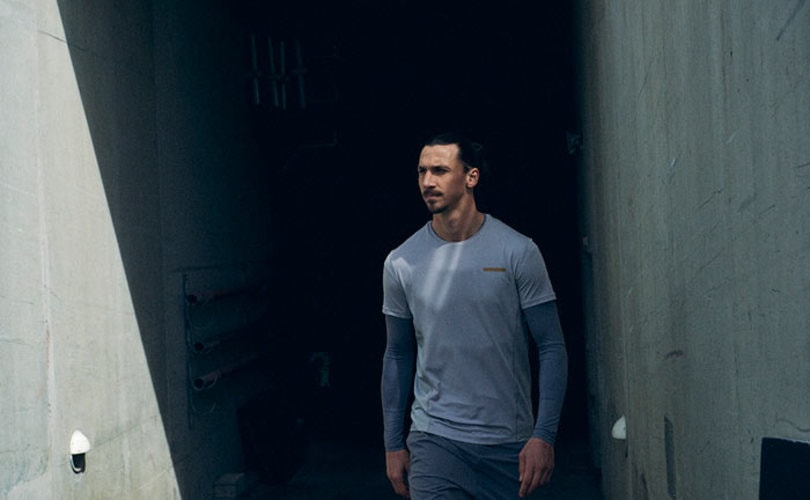
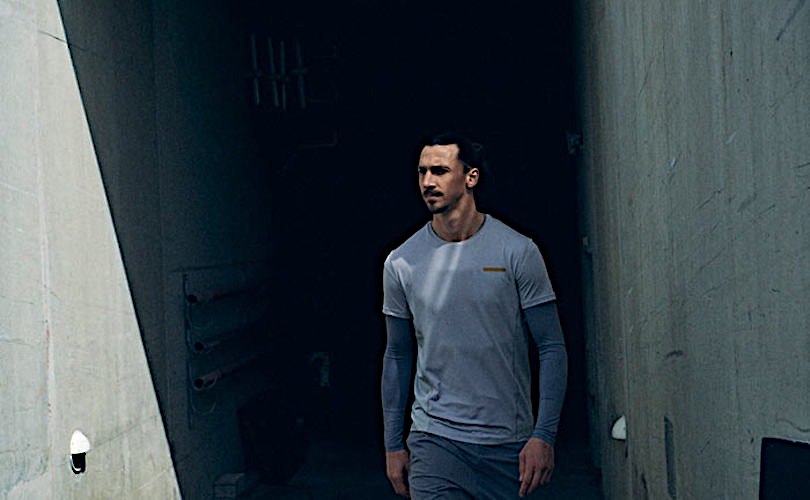
new background technique

diff --git a/style.css b/style.css
@@ -1,7 +1,10 @@
-  *{
-    font-family: Rubik,sans-serif;
+  html,body{
     margin: 0;
     padding: 0;
+    height: 100%;
+    width: 100%;
+    font-family: Rubik,sans-serif;
+
   }
   body{
     overflow-x: hidden;
@@ -15,35 +18,44 @@
    body::-webkit-scrollbar-thumb{
     background: #75e7ba;
   }
-
+ 
+  /* Responsive Background  */
+  .intro{
+    height: 100%;
+    width: 100%;
+    margin: auto;
+    background: url(//C:/Users/kianf/Documents/atom/Website/Zlatan1.png);
+    display: table;
+    top: 0;
+    background-size: cover;
+  }
 
   #root{
-    background-color:#0f0f11;
-    width:100%;
+    background-color:#000000;
     height:4000px;
     left: 0px;
-    position: relative;
     top:0px;
-
-  }
-  #homeSmall{
-    display: none;
-  }
-  section{
-    top: 0;
-    position: absolute;
-    width: 100%;
-    z-index: 0;
-  }
-  #navbig{
-    width: 100%;
-    height: 100px;
-    z-index: 1;
-    position: relative;
-    margin-left: 10%;
-  }
+    z-index: -1;
+    }
+    #homeSmall{
+      display: none;
+    }
+    section{
+      top: 0;
+      position: absolute;
+      z-index: 0;
+    }
+    #navbig{
+      width: 100%;
+      height: 100px;
+      z-index: 1;
+      position: relative;
+      margin-left: 10%;
+    } 
+   
+ 
   /* Navigation Styles normal */
-  #ul{
+  ul{
     margin-left: 50px;
 
   }
@@ -69,7 +81,7 @@
     display: hidden;
     justify-content: space-around;
     align-items: center;
-    background-color: #75e7ba;
+    background-color: #000000;
     width: 100%;
   }
   .logo{
@@ -140,7 +152,7 @@
     #bigdiv{
       position: absolute;
       display: flex;
-      top: 65vw;
+      top: 63vw;
       width: 100%;
     }
     #div1{
@@ -168,7 +180,7 @@
     #txtbox{
       border: #f5f5f5 solid 4px;
       position: relative;
-      top: 85vw;
+      top: 80vw;
       margin-left: 35%;
       width: 30%;
       height: 10vw;      
@@ -193,17 +205,17 @@
           overflow-x: hidden;
         }
         #div1{
-          margin-left: 10%;
+          margin-left: 13%;
         }
         #div2{
-          margin-left: 42%;
+          margin-left: 39.5%;
         }
         #div3{
-          margin-left: 72%;
+          margin-left: 66%;
         }
-        /* #txtbox{
-          top: 90vw;      
-        } */
+        #txtbox{
+          top: 83vw;      
+        }
       }
       @media screen and (max-width:1600px){
 
@@ -232,10 +244,6 @@
           #div3{
             margin-left: 70%;
           }
-          #txtbox{
-            top: 87vw;      
-          }
-
         }
         @media screen and (max-width:1025px){
 
@@ -247,7 +255,7 @@
               overflow-x: hidden;
             }
             #bigdiv{
-              top: 75vw;
+              top: 85vw;
             }
             #div1{
               margin-left: 5%;
@@ -269,7 +277,7 @@
             }
             #startButton{
               height: 50px;
-              width: 180px;
+              width: 130px;
               margin-top: 7vh;
               font-size: smaller;
             }
@@ -278,26 +286,39 @@
                 font-size: 1.4vw;
            }
            #txtbox{
-            top: 88vw;      
+            top: 98vw;      
           }
         }
         @media screen and (max-width:800px){
 
+          .intro{
+            background: url(//C:/Users/kianf/Documents/atom/Website/Zlatan-small.png); 
+            background-repeat: no-repeat;
+            width: 100%;
+            
+              /* height: 800px;
+              background-size: 100% 100%; */
+                     
+          }
           .picture{
-            width: 150px;
-            height: 200px;
+            width: 300px;
+            height: 400px;
           }
           body{
             overflow-x: hidden;
           }
           #div1{
-            margin-left: 5%;
+            top: 660px;
+            margin-left: 32%;
           }
           #div2{
-            margin-left: 38%;
+            top: 1200px;
+            margin-left: 32%;
           }
           #div3{
-            margin-left: 70%;
+            top: 1730px;
+            margin-left: 32%;
+          
           }
           ul{
             margin-left: 10px;
@@ -306,24 +327,24 @@
             margin-left: 5vh;
           }
           #start{
-            top:15vh;
+            top:300px;
           }
           #title{
-            font-size: 3vw;
+            font-size: 8vw;
             margin-left: 75px;
           }
           #startparagraph{
             margin: 15px 0 25px 75px;
-            font-size: 1.5vw;
+            font-size: 2.5vw;
           }
           #startButton{
-            height: 50px;
-            width: 100px;
-            margin-top: 3vh;
+            height: 75px;
+            width: 300px;
+            margin-top: 15vw;
             margin-left: 0px;
           } 
           #txtbox{
-            top: 85vw;           
+            top: 2660px;           
             margin-left: 25%;
             width: 50%;
             height: 20vw;
@@ -336,6 +357,12 @@
 
             #root{
               height: 2500px;
+            }
+            .intro{
+              /* background: url(//C:/Users/kianf/Documents/atom/Website/zlatan-small2.png); 
+              background-repeat: no-repeat; */
+              
+                       
             }
             #homeSmall{
               display: block;
@@ -452,4 +479,4 @@
   .toggle.line3{
     transform: rotate(45deg) translate(-5px,-6px);
   }
-          
+           

diff --git a/index.html b/index.html
@@ -15,6 +15,16 @@
       <body>
 
         <div id="root">
+          <section class="intro">
+            <div class="inner">
+              <div id="start">
+                <h1 id="title">Fussballakademie <br> Oberschwaben</h1>
+                <p id="startparagraph">Jeder einzelne muss persönlich Hürden überwinden.Wie <br>schnnell wir ins Ziel kommen, spielt dabei keine
+                  große Rolle.<br> Wichtig ist nur, jeden Tag alles zu geben. Sei auch dabei!
+                  <button id="startButton">Mehr lesen</button>
+                </div>
+            </div>
+          </section>
           <nav id="navbig">
             <ul id="ul">
               <li ><a href="index.html">Home</a></li>
@@ -38,16 +48,7 @@
             </div>
           </nav>
           
-            <section>
-              <img src="zlatan-small2.png" id="homeSmall" width="100%" height="auto">
-              <img src="Zlatan.png" id="home" width="100%" height="auto">
-              <div id="start">
-                <h1 id="title">Fussballakademie <br> Oberschwaben</h1>
-                <p id="startparagraph">Jeder einzelne muss persönlich Hürden überwinden.Wie <br>schnnell wir ins Ziel kommen, spielt dabei keine
-                  große Rolle.<br> Wichtig ist nur, jeden Tag alles zu geben. Sei auch dabei!
-                  <button id="startButton">Mehr lesen</button>
-                </div>
-            </section>
+          
             <main>
               <div id="bigdiv">
                 <div id="div1">
